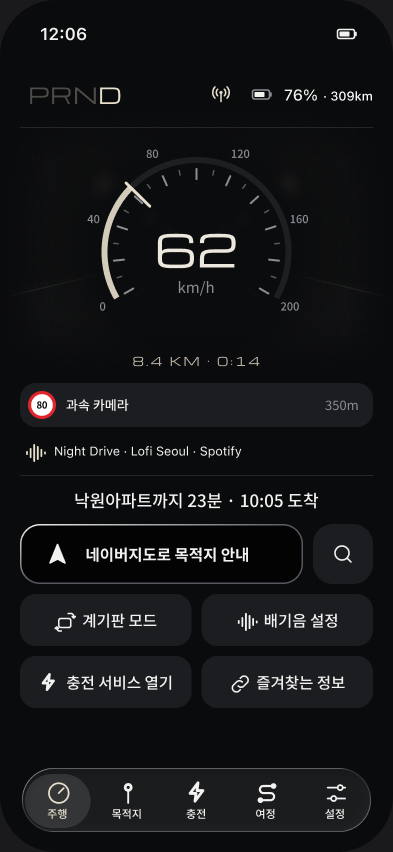
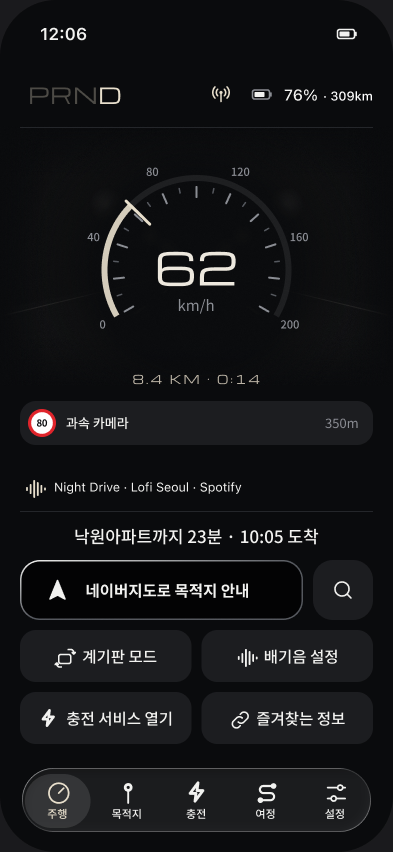
히어로 폰: 아날로그·디지털 주행 화면(62 km/h)을 5초마다 부드럽게 전환
- Figma 02 주행 중(10:400)·02b 주행 중 디지털(102:2127)을 내보내 겹쳐 두고 CSS로 교차 전환(4초 유지 + 1초 페이드, 끝없이)
- 움직임 줄이기 설정이면 아날로그 화면에 멈춘다

diff --git a/index.html b/index.html
@@ -23,10 +23,10 @@
 
 <link rel="preconnect" href="https://cdn.jsdelivr.net" crossorigin />
 <link rel="stylesheet" crossorigin href="https://cdn.jsdelivr.net/gh/orioncactus/pretendard@v1.3.9/dist/web/variable/pretendardvariable-dynamic-subset.min.css" />
-<link rel="stylesheet" href="/assets/css/site.css?v=20261030a" />
-<script src="/assets/js/site.js?v=20261030a" defer></script>
-<script src="/assets/js/road.js?v=20261030a" defer></script>
-<script src="/assets/js/slider.js?v=20261030a" defer></script>
+<link rel="stylesheet" href="/assets/css/site.css?v=20261030b" />
+<script src="/assets/js/site.js?v=20261030b" defer></script>
+<script src="/assets/js/road.js?v=20261030b" defer></script>
+<script src="/assets/js/slider.js?v=20261030b" defer></script>
 </head>
 <body>
 
@@ -67,7 +67,10 @@
         </div>
       </div>
       <div class="hero-visual">
-        <div class="phone"><div class="shot" role="img" aria-label="PRND 주행 화면 — 속도, 이동 거리, 차량 출력, 남은 시간" style="background-image: url('/assets/screens/drive.png?v=20261029a')"></div></div>
+        <div class="phone hero-phone">
+          <div class="shot" role="img" aria-label="PRND 주행 화면 — 아날로그 속도계 62 km/h, 과속 카메라, 남은 시간" style="background-image: url('/assets/screens/drive.png?v=20261030b')"></div>
+          <div class="shot shot-alt" role="img" aria-label="PRND 주행 화면 — 디지털 속도 62 km/h, 구간단속 평균 속도" style="background-image: url('/assets/screens/drive-digital.png?v=20261030b')"></div>
+        </div>
       </div>
     </div>
   </section>
@@ -122,7 +125,7 @@
 
     <div class="slider" data-autoplay="3500">
       <ul class="slider-track" aria-label="앱 화면 미리보기">
-        <li class="slide"><div class="phone"><div class="shot" role="img" aria-label="주행 중 — 속도계, 과속 카메라, 남은 시간, 목적지 안내" style="background-image: url('/assets/screens/drive.png?v=20261029a')"></div></div><p>주행</p></li>
+        <li class="slide"><div class="phone"><div class="shot" role="img" aria-label="주행 중 — 속도계, 과속 카메라, 남은 시간, 목적지 안내" style="background-image: url('/assets/screens/drive.png?v=20261030b')"></div></div><p>주행</p></li>
         <li class="slide"><div class="phone"><div class="shot" role="img" aria-label="목적지 — 검색, 집·회사, 즐겨찾기, 최근" style="background-image: url('/assets/screens/destinations.png?v=20261029a')"></div></div><p>목적지</p></li>
         <li class="slide"><div class="phone"><div class="shot" role="img" aria-label="여정 — 이달의 운전 요약과 달력" style="background-image: url('/assets/screens/journey.png?v=20261029a')"></div></div><p>여정</p></li>
         <li class="slide"><div class="phone"><div class="shot" role="img" aria-label="내비게이션 선택 — 연결할 내비게이션 앱 고르기" style="background-image: url('/assets/screens/navigation.png?v=20261029a')"></div></div><p>내비게이션</p></li>

diff --git a/assets/css/site.css b/assets/css/site.css
@@ -128,6 +128,18 @@ section { padding: 112px 0; border-top: 1px solid var(--divider); }
 .hero .actions { display: flex; flex-wrap: wrap; gap: 12px; }
 .hero .note { margin: 18px 0 0; font-size: 13px; color: var(--text-3); }
 .hero-visual { position: relative; display: flex; justify-content: center; }
+/* 히어로 폰: 아날로그 ↔ 디지털 주행 화면을 5초마다 부드럽게 바꾼다(10초 한 바퀴, 끝없이) */
+.phone.hero-phone .shot-alt {
+  position: absolute; inset: 9px; width: auto; height: auto;
+  opacity: 0; animation: hero-swap 10s ease-in-out infinite;
+}
+@keyframes hero-swap {
+  0%, 40% { opacity: 0; }
+  50%, 90% { opacity: 1; }
+  100% { opacity: 0; }
+}
+@media (prefers-reduced-motion: reduce) { .phone.hero-phone .shot-alt { animation: none; } }
+
 /* 화면 캡처는 배경 이미지로 — 끌어서 이미지 파일을 가져갈 수 없게 */
 .hero-visual::before {
   content: ""; position: absolute; inset: 10% -30% auto; height: 70%;

diff --git a/privacy/index.html b/privacy/index.html
@@ -13,9 +13,9 @@
 <link rel="apple-touch-icon" sizes="180x180" href="/assets/img/apple-touch-icon.png" />
 <link rel="preconnect" href="https://cdn.jsdelivr.net" crossorigin />
 <link rel="stylesheet" crossorigin href="https://cdn.jsdelivr.net/gh/orioncactus/pretendard@v1.3.9/dist/web/variable/pretendardvariable-dynamic-subset.min.css" />
-<link rel="stylesheet" href="/assets/css/site.css?v=20261030a" />
-<script src="/assets/js/site.js?v=20261030a" defer></script>
-<script src="/assets/js/road.js?v=20261030a" defer></script>
+<link rel="stylesheet" href="/assets/css/site.css?v=20261030b" />
+<script src="/assets/js/site.js?v=20261030b" defer></script>
+<script src="/assets/js/road.js?v=20261030b" defer></script>
 </head>
 <body class="doc-page">
 

diff --git a/terms/location/index.html b/terms/location/index.html
@@ -13,9 +13,9 @@
 <link rel="apple-touch-icon" sizes="180x180" href="/assets/img/apple-touch-icon.png" />
 <link rel="preconnect" href="https://cdn.jsdelivr.net" crossorigin />
 <link rel="stylesheet" crossorigin href="https://cdn.jsdelivr.net/gh/orioncactus/pretendard@v1.3.9/dist/web/variable/pretendardvariable-dynamic-subset.min.css" />
-<link rel="stylesheet" href="/assets/css/site.css?v=20261030a" />
-<script src="/assets/js/site.js?v=20261030a" defer></script>
-<script src="/assets/js/road.js?v=20261030a" defer></script>
+<link rel="stylesheet" href="/assets/css/site.css?v=20261030b" />
+<script src="/assets/js/site.js?v=20261030b" defer></script>
+<script src="/assets/js/road.js?v=20261030b" defer></script>
 </head>
 <body class="doc-page">
 

diff --git a/404.html b/404.html
@@ -9,8 +9,8 @@
 <link rel="icon" type="image/svg+xml" href="/assets/img/favicon.svg" />
 <link rel="icon" type="image/png" sizes="64x64" href="/assets/img/favicon.png" />
 <link rel="stylesheet" crossorigin href="https://cdn.jsdelivr.net/gh/orioncactus/pretendard@v1.3.9/dist/web/variable/pretendardvariable-dynamic-subset.min.css" />
-<link rel="stylesheet" href="/assets/css/site.css?v=20261030a" />
-<script src="/assets/js/road.js?v=20261030a" defer></script>
+<link rel="stylesheet" href="/assets/css/site.css?v=20261030b" />
+<script src="/assets/js/road.js?v=20261030b" defer></script>
 </head>
 <body class="doc-page">
 <main class="doc">
